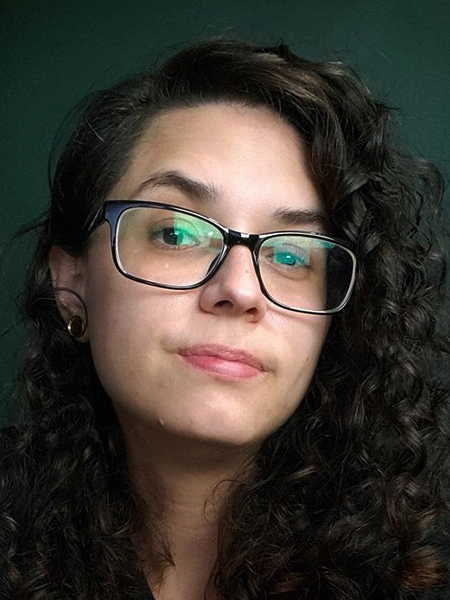
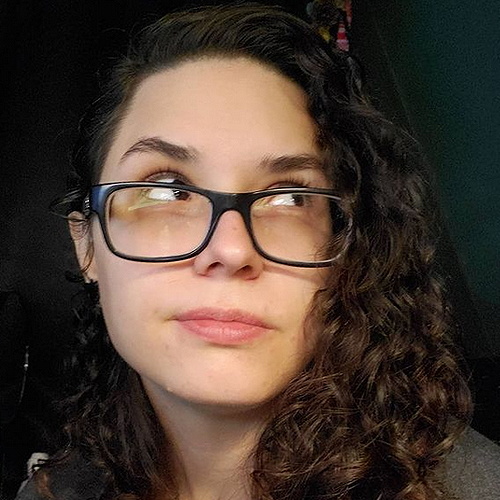
Tested across a variety of device sizes and made changes to accomodate.

diff --git a/index.html b/index.html
@@ -16,15 +16,17 @@
 
 <body>
 
+<!-- Navigation. -->
 <header>
     <ul class="nav">
         <li><a href="#about-me">About Me</a></li>
-        <li><a href="#work">Work</a></li>
+        <li><a href="#my-work">Work</a></li>
         <li><a href="#contact-me">Contact</a></li>
         <li><a href=".\resume.pdf" target="_blank">Resume</a></li>
     </ul>
 </header>
 
+<!-- Controls the content of the floating objects. -->
     <ul class="floaters">
         <li><i class="fal fa-code fa-2x"></i></li>
         <li><i class="fad fa-deer fa-5x"></i></li>
@@ -38,8 +40,10 @@
         <li><i class="fal fa-code fa-8x"></i></li>
 </ul>
 
+<!-- Introduction text. -->
 <div class="animate__animated animate__fadeIn animate__slower"><center><span class="styled-text">Howdy, </span> <span class="intro-text">I’m <b>Ren</b>, a web developer and digital artist.</span></center></div>
-</div>
+
+<!-- Treeline. -->
 <img src=".\images/twee.png" class="tree-line"></div>
 
 <div id="content">
@@ -55,7 +59,7 @@
 
 <section id="my-work">
     <h1>MY-WORK</h1>
-<!-- Web development gallery images. -->
+<!-- All Web development gallery images. -->
     <section class="gallery">
         <h2>Web Development</h2>
         <div class="row">
@@ -72,8 +76,10 @@
          <div class="row">
              <div class="description">
                 <img src=".\images/fido-friendly.png" alt="">
-                 <h2>Item 01</h2>
-                <p>Lorem ipsum dolor sit amet, consectetur adipiscing elit. Vivamus quis libero erat. Integer ac purus est. Proin erat mi, pulvinar ut magna eget, consectetur auctor turpis</p>
+                 <h2>Fido Friendly</h2>
+                 <p>A web application created as part of a group project utilizing Bootstrap, jquery, plus OMDB and Does the Dog Die APIs. Features a mobile responsive layout. </p>
+                <p><a href="https://github.com/hr-ivey/fido-friendly">REPO</a></p>
+                <p><a href="https://hr-ivey.github.io/fido-friendly/">DEPLOYED</a></p>
             </div>
         </div>
     </div>
@@ -97,7 +103,7 @@
         </div>
     </div>
     </div>
-<!-- Web development description box 01. -->
+<!-- Web development description box 04. -->
     <div id="item04" class="port">
         <div class="row">
             <div class="description">
@@ -105,22 +111,22 @@
                 <h2>Item 04</h2>
             <p>Lorem ipsum dolor sit amet, consectetur adipiscing elit. Vivamus quis libero erat. Integer ac purus est. Proin erat mi, pulvinar ut magna eget, consectetur auctor turpis</p>
         </div>
-
     </div>
     </div>
     </section>
-<!-- Digital art gallery images. -->
+<!-- Digital art gallery images will go here in the future.-->
     <section class="gallery">
         <h2>Digital Art</h2>
+        <center><span style="font-size:2em; letter-spacing: .3em;"> Coming soon. </span></center>
 </section>
 
 <footer>
 <section id="contact-me">
     <h1>CONTACT-ME</h1>
     <ul class="contact">
-        <li><a href="mailto:haleyrivey@gmail.com" target="_blank"><i class="fad fa-envelope-square fa-3x"></i></a></li>
-        <li><a href="https://www.linkedin.com/in/haleyrivey "target="_blank"><i class="fab fa-linkedin fa-3x"></i></a></li>
-        <li><a href="https://github.com/hr-ivey/" target="_blank"><i class="fab fa-github-square fa-3x"></i></a></li>
+        <li><a href="mailto:haleyrivey@gmail.com" target="_blank"><i class="fad fa-envelope-square fa-2x"></i></a></li>
+        <li><a href="https://www.linkedin.com/in/haleyrivey "target="_blank"><i class="fab fa-linkedin fa-2x"></i></a></li>
+        <li><a href="https://github.com/hr-ivey/" target="_blank"><i class="fab fa-github-square fa-2x"></i></a></li>
     </ul></section>
 </div>
 </footer>

diff --git a/css/style.css b/css/style.css
@@ -1,9 +1,9 @@
 h1 {
     color: #fffee1;
-    font-size: 3em;
+    font-size: 4em;
     text-align: center;
     font-weight: 700;
-    padding: 2em 0em 1em 0em;
+    padding: 1em 0em 1em 0em;
     margin: 0;
 }
 
@@ -25,7 +25,7 @@ h2 {
 p {
     font-size: 1.5em;
     font-weight: 500;
-    line-height: 1.7em;
+    line-height: 1.2em;
 }
 
 b {
@@ -78,14 +78,13 @@ body {
 
 #content {
     background-color: #223927;
-    padding: 0em 0em 3em 0em;
 }
 
 .nav {
     display: flex;
     flex-wrap: wrap;
-    justify-content: right;
     margin-bottom: 7em;
+    justify-content: flex-end;
 }
 
 .nav li {
@@ -119,7 +118,7 @@ body {
 
 .photo {
     float: left;
-    width: 220px;
+    width: 300px;
     margin: 0em 4em 1em 0em;
     border-color: #131313;
     border-style: solid;
@@ -155,7 +154,7 @@ body {
 /* Animated symbol settings. */
 .floaters{
     width: -moz-available;
-    height: 100px;
+    height: 10em;
     overflow: hidden;
     color: #fffee1;
 }
@@ -164,7 +163,7 @@ body {
     display: block;
     list-style: none;
     animation: animate 25s linear infinite;
-    bottom: 350px;
+    bottom: 250px;
 }
 .floaters li:nth-child(1){
     left: 25%;
@@ -225,9 +224,8 @@ body {
 
 /* "My Work" gallery settings */
 .row img {
-    border: 2px #fffee1 solid;
-    width: 80%;
-    padding: 2em;
+    width: 95%;
+    border-radius: 3em;
 }
 .gallery ul li {
     float: left;
@@ -242,16 +240,17 @@ body {
 }
 .gallery ul li {
     margin-bottom: 20px;
-    max-width: 485px;
+    max-width: 23%;
+    list-style: none;
 }
 .port {
     position: absolute;
-    width: 100%;
-    height: 100%;
+    width: -webkit-fill-available;
+    height: -webkit-fill-available;
     top: 0;
     left: 0;
     padding-top: 1em;
-    background-color: #121e15;
+    background-color: #131313;
     z-index: 103;
     visibility: hidden;
     -webkit-transform: translateY(-100%);
@@ -261,14 +260,13 @@ body {
     transition: all 0.5s ease-in-out;
 }
 .port img {
-    width: 20%;
+    width: 30%;
     margin-right: 3em;
     float: left;
 }
 .port .description {
     max-height: 100%;
     padding: 0 3em;
-    overflow: auto;
 }
 .port > * {
     opacity: 0;
@@ -307,12 +305,18 @@ body {
 }
 
 /* Mobile-friendly layout changes */
-@media (max-width: 1024px) {
+@media (max-width: 768px) {
     .floaters {
         display: none;
     }
-    h2 {
+    p {
+        font-size: 1.2em;
+    }
+    h1 {
         font-size: 2em;
+    }
+    h2 {
+        font-size: 3em;
     }
     .nav {
         justify-content: center;
@@ -320,6 +324,10 @@ body {
     }
     .nav li {
         margin: .5em 1em;
+    }
+    .photo {
+        width: -webkit-fill-available;
+        margin: 2em 2em;
     }
     .container {
         display: flex;
@@ -330,36 +338,24 @@ body {
         padding: 0;
     }
     .contact li {
-    margin: 1em;
+    margin: .4em;
     }
     .gallery ul li {
-        max-width: -moz-available;
+        max-width: -webkit-fill-available;
     }
     .port {
         position: fixed;
     }
+    .port .description {
+        max-height: 100%;
+        padding: 0 1.5em;
+        text-align: center;
+    }
     .port img {
-        width: -moz-available;
-        margin: 5em 0 2em 0;
+        width: -webkit-fill-available;
+        margin: 0em 0 2em 0;
     }
     .close
     {
         position: fixed;
     }
-
-@media (max-width: 550px) {
-    .floaters {
-        display: none;
-    }
-    .photo {
-        width: -moz-available;
-        margin: 2em 0em;
-    }
-    .row img {
-        padding: .5em;
-    }
-    .port img {
-        width: -moz-available;
-    }
-
-}
